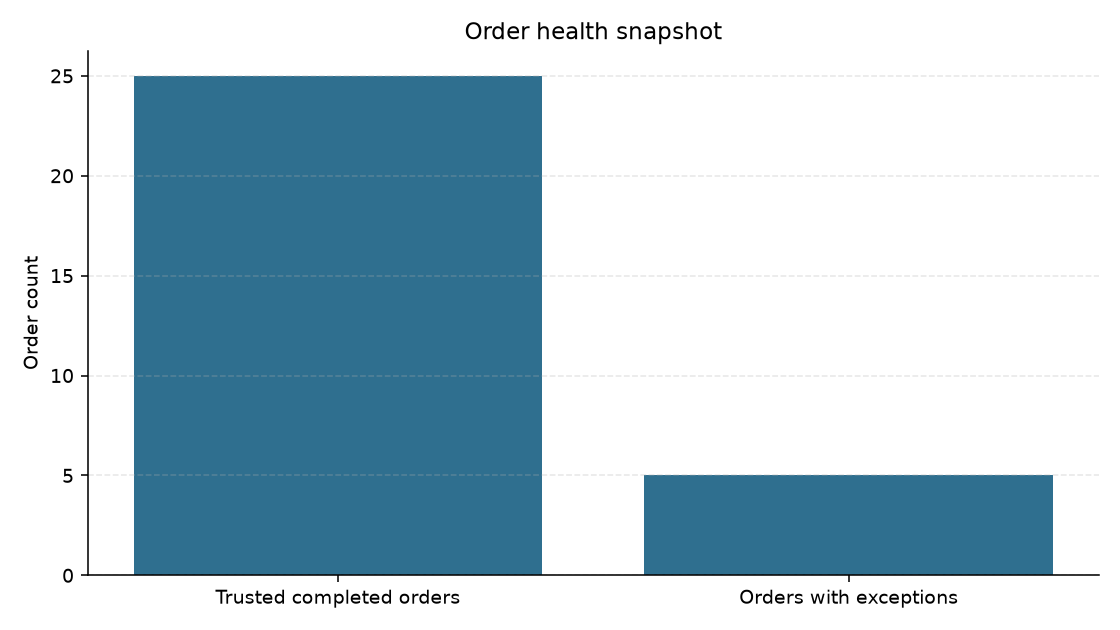
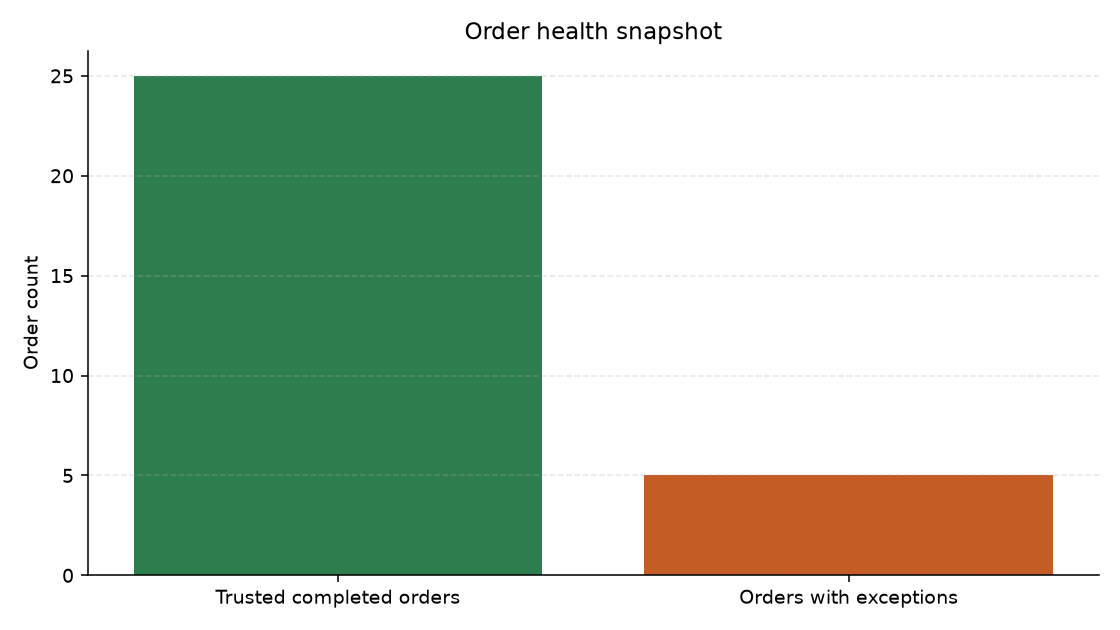
tables before charts and clearer chart colors.

diff --git a/src/reporting.py b/src/reporting.py
@@ -13,6 +13,14 @@ from src.ingest import OUTPUT_DIR
 SQL_DIR = Path(__file__).resolve().parents[1] / "sql"
 CHARTS_DIR = OUTPUT_DIR / "charts"
 
+# Simple professional palette (no purple glow stack)
+COLOR_PRIMARY = "#2F6F8F"  # revenue / single-series charts
+COLOR_TRUSTED = "#2E7D4F"  # healthy / trusted
+COLOR_EXCEPTION = "#C45C26"  # problems needing review
+COLOR_HIGH = "#B33A3A"
+COLOR_MEDIUM = "#C45C26"
+COLOR_LOW = "#6B7280"
+
 
 def _md_table(df: pd.DataFrame) -> str:
     if df is None or df.empty:
@@ -61,16 +69,18 @@ def _save_bar_chart(
     ylabel: str,
     filename: str,
     horizontal: bool = False,
+    colors: str | list[str] | None = None,
 ) -> Path:
     CHARTS_DIR.mkdir(parents=True, exist_ok=True)
     path = CHARTS_DIR / filename
     fig, ax = plt.subplots(figsize=(8, 4.5))
+    bar_colors = colors if colors is not None else COLOR_PRIMARY
     if horizontal:
-        ax.barh(categories, values, color="#2F6F8F")
+        ax.barh(categories, values, color=bar_colors)
         ax.set_xlabel(ylabel)
         ax.invert_yaxis()
     else:
-        ax.bar(categories, values, color="#2F6F8F")
+        ax.bar(categories, values, color=bar_colors)
         ax.set_ylabel(ylabel)
         ax.tick_params(axis="x", rotation=0)
     ax.set_title(title)
@@ -92,6 +102,7 @@ def _write_charts(bq_frames: list[pd.DataFrame]) -> dict[str, str]:
             title="Q1: Completed revenue by month",
             ylabel="Revenue ($)",
             filename="q1_revenue_by_month.png",
+            colors=COLOR_PRIMARY,
         )
         images["q1"] = "charts/q1_revenue_by_month.png"
 
@@ -107,6 +118,7 @@ def _write_charts(bq_frames: list[pd.DataFrame]) -> dict[str, str]:
             ylabel="Completed order value ($)",
             filename="q2_top_customers.png",
             horizontal=True,
+            colors=COLOR_PRIMARY,
         )
         images["q2"] = "charts/q2_top_customers.png"
 
@@ -118,14 +130,14 @@ def _write_charts(bq_frames: list[pd.DataFrame]) -> dict[str, str]:
             title="Q4: Completed revenue by state",
             ylabel="Revenue ($)",
             filename="q4_revenue_by_state.png",
+            colors=COLOR_PRIMARY,
         )
         images["q4"] = "charts/q4_revenue_by_state.png"
 
     return images
 
 
-def _write_order_health_chart(con: duckdb.DuckDBPyConnection) -> Path:
-    """Trusted completed orders vs orders with exceptions (README snapshot)."""
+def _order_health_counts(con: duckdb.DuckDBPyConnection) -> tuple[int, int]:
     trusted = con.execute(
         """
         SELECT count(*) FROM fact_order
@@ -161,14 +173,38 @@ def _write_order_health_chart(con: duckdb.DuckDBPyConnection) -> Path:
         SELECT count(DISTINCT order_key) FROM flagged
         """
     ).fetchone()[0]
+    return int(trusted), int(exception_orders)
 
+
+def _write_order_health_chart(trusted: int, exception_orders: int) -> Path:
+    """Trusted completed orders vs orders with exceptions (README snapshot)."""
     return _save_bar_chart(
         categories=["Trusted completed orders", "Orders with exceptions"],
         values=[float(trusted), float(exception_orders)],
         title="Order health snapshot",
         ylabel="Order count",
         filename="readme_order_health.png",
+        colors=[COLOR_TRUSTED, COLOR_EXCEPTION],
     )
+
+
+def _section_with_table_then_chart(
+    title: str,
+    intro: str | None,
+    table_df: pd.DataFrame | None,
+    chart_path: str | None,
+    chart_alt: str,
+) -> list[str]:
+    parts = [f"## {title}", ""]
+    if intro:
+        parts.extend([intro, ""])
+    if table_df is not None:
+        parts.extend([_md_table(table_df), ""])
+    else:
+        parts.extend(["_Query missing._\n", ""])
+    if chart_path:
+        parts.extend([f"![{chart_alt}]({chart_path})", ""])
+    return parts
 
 
 def write_outputs(con: duckdb.DuckDBPyConnection) -> None:
@@ -205,19 +241,68 @@ def write_outputs(con: duckdb.DuckDBPyConnection) -> None:
     failed = int((dq["status"] == "FAIL").sum()) if not dq.empty else 0
 
     CHARTS_DIR.mkdir(parents=True, exist_ok=True)
-    _write_order_health_chart(con)
+    trusted_n, exception_n = _order_health_counts(con)
+    _write_order_health_chart(trusted_n, exception_n)
+
     sev = (
         exceptions.groupby("severity").size().reindex(["High", "Medium", "Low"]).fillna(0)
         if not exceptions.empty
         else pd.Series({"High": 0, "Medium": 0, "Low": 0})
     )
+    sev_df = pd.DataFrame(
+        {"severity": sev.index.astype(str), "exception_count": sev.values.astype(int)}
+    )
     _save_bar_chart(
-        categories=[str(x) for x in sev.index.tolist()],
-        values=[float(x) for x in sev.values.tolist()],
+        categories=sev_df["severity"].tolist(),
+        values=sev_df["exception_count"].astype(float).tolist(),
         title="Exception count by severity",
         ylabel="Count",
         filename="dq_exceptions_by_severity.png",
+        colors=[COLOR_HIGH, COLOR_MEDIUM, COLOR_LOW],
     )
+
+    # Keep a small snapshot table next to the README chart path for regenerable docs
+    snapshot_df = pd.DataFrame(
+        {
+            "category": ["Trusted completed orders", "Orders with exceptions"],
+            "order_count": [trusted_n, exception_n],
+        }
+    )
+    (OUTPUT_DIR / "order_health_snapshot.md").write_text(
+        "\n".join(
+            [
+                "# Order health snapshot",
+                "",
+                _md_table(snapshot_df),
+                "![Order health snapshot](charts/readme_order_health.png)",
+                "",
+            ]
+        ),
+        encoding="utf-8",
+    )
+
+    # Keep README snapshot table in sync with generated counts
+    readme_path = Path(__file__).resolve().parents[1] / "README.md"
+    if readme_path.exists():
+        readme = readme_path.read_text(encoding="utf-8")
+        start = readme.find("## Snapshot")
+        end = readme.find("## Repository structure")
+        if start != -1 and end != -1 and start < end:
+            snapshot_block = "\n".join(
+                [
+                    "## Snapshot",
+                    "",
+                    "This snapshot is generated by the pipeline. Exact counts first, then the chart "
+                    "(green = trusted, orange = exceptions).",
+                    "",
+                    _md_table(snapshot_df).rstrip(),
+                    "",
+                    "![Order health snapshot](outputs/charts/readme_order_health.png)",
+                    "",
+                    "",
+                ]
+            )
+            readme_path.write_text(readme[:start] + snapshot_block + readme[end:], encoding="utf-8")
 
     dq_report = "\n".join(
         [
@@ -234,6 +319,7 @@ def write_outputs(con: duckdb.DuckDBPyConnection) -> None:
             "",
             "## Exception count by severity",
             "",
+            _md_table(sev_df),
             "![Exception count by severity](charts/dq_exceptions_by_severity.png)",
             "",
             "## Rule results",
@@ -256,45 +342,48 @@ def write_outputs(con: duckdb.DuckDBPyConnection) -> None:
         "# Business Question Answers",
         "",
         "Answers are generated with SQL from `sql/business_questions.sql` "
-        "against the curated model. Values are not hard-coded. Charts are "
-        "created automatically each time the pipeline runs.",
-        "",
-        "## Q1. What is completed revenue by month?",
-        "",
-        "Trusted completed orders only (valid customer and product IDs, quantity greater than zero).",
+        "against the curated model. Values are not hard-coded. Each section shows "
+        "the table first, then the chart. Charts refresh when the pipeline runs.",
         "",
     ]
-    if "q1" in images:
-        sections.extend([f"![Q1 completed revenue by month]({images['q1']})", ""])
     sections.extend(
-        [
-            _md_table(bq_frames[0]) if len(bq_frames) > 0 else "_Query missing._\n",
-            "",
-            "## Q2. Who are the top 10 customers by completed order value?",
-            "",
-        ]
+        _section_with_table_then_chart(
+            "Q1. What is completed revenue by month?",
+            "Trusted completed orders only (valid customer and product IDs, quantity greater than zero).",
+            bq_frames[0] if len(bq_frames) > 0 else None,
+            images.get("q1"),
+            "Q1 completed revenue by month",
+        )
     )
-    if "q2" in images:
-        sections.extend([f"![Q2 top customers]({images['q2']})", ""])
+    sections.extend(
+        _section_with_table_then_chart(
+            "Q2. Who are the top 10 customers by completed order value?",
+            None,
+            bq_frames[1] if len(bq_frames) > 1 else None,
+            images.get("q2"),
+            "Q2 top customers",
+        )
+    )
     sections.extend(
         [
-            _md_table(bq_frames[1]) if len(bq_frames) > 1 else "_Query missing._\n",
-            "",
             "## Q3. Which orders have payment mismatches, missing payments, "
             "invalid customer references, invalid product references, or suspicious quantities?",
             "",
             _md_table(bq_frames[2]) if len(bq_frames) > 2 else "_Query missing._\n",
             "",
-            "## Q4. Which states have the highest completed revenue?",
-            "",
         ]
     )
-    if "q4" in images:
-        sections.extend([f"![Q4 completed revenue by state]({images['q4']})", ""])
+    sections.extend(
+        _section_with_table_then_chart(
+            "Q4. Which states have the highest completed revenue?",
+            None,
+            bq_frames[3] if len(bq_frames) > 3 else None,
+            images.get("q4"),
+            "Q4 completed revenue by state",
+        )
+    )
     sections.extend(
         [
-            _md_table(bq_frames[3]) if len(bq_frames) > 3 else "_Query missing._\n",
-            "",
             "## Q5. Is there any visible relationship between negative support tickets "
             "and order or payment exceptions?",
             "",

diff --git a/outputs/business_answers.md b/outputs/business_answers.md
@@ -1,12 +1,10 @@
 # Business Question Answers
 
-Answers are generated with SQL from `sql/business_questions.sql` against the curated model. Values are not hard-coded. Charts are created automatically each time the pipeline runs.
+Answers are generated with SQL from `sql/business_questions.sql` against the curated model. Values are not hard-coded. Each section shows the table first, then the chart. Charts refresh when the pipeline runs.
 
 ## Q1. What is completed revenue by month?
 
 Trusted completed orders only (valid customer and product IDs, quantity greater than zero).
-
-![Q1 completed revenue by month](charts/q1_revenue_by_month.png)
 
 | month | completed_revenue | completed_order_count |
 | --- | --- | --- |
@@ -15,15 +13,15 @@ Trusted completed orders only (valid customer and product IDs, quantity greater 
 | 2025-05 | 446.2 | 9 |
 
 
-## Q2. Who are the top 10 customers by completed order value?
+![Q1 completed revenue by month](charts/q1_revenue_by_month.png)
 
-![Q2 top customers](charts/q2_top_customers.png)
+## Q2. Who are the top 10 customers by completed order value?
 
 | customer_key | full_name | loyalty_tier | completed_order_value | completed_orders |
 | --- | --- | --- | --- | --- |
 | C010 | Lucas Taylor | Gold | 194.98 | 2 |
-| C012 | James Thomas | Bronze | 133.98 | 2 |
 | C016 | Henry Martin | Silver | 133.98 | 2 |
+| C012 | James Thomas | Bronze | 133.98 | 2 |
 | C007 | Sophia Miller | Gold | 99.98 | 2 |
 | C002 | Liam Nguyen | Silver | 89.99 | 2 |
 | C009 | Isabella Moore | Bronze | 83.25 | 2 |
@@ -32,6 +30,8 @@ Trusted completed orders only (valid customer and product IDs, quantity greater 
 | C003 | Noah Williams | Bronze | 73.75 | 2 |
 | C013 | Charlotte Jackson | Silver | 59.0 | 1 |
 
+
+![Q2 top customers](charts/q2_top_customers.png)
 
 ## Q3. Which orders have payment mismatches, missing payments, invalid customer references, invalid product references, or suspicious quantities?
 
@@ -46,8 +46,6 @@ Trusted completed orders only (valid customer and product IDs, quantity greater 
 
 ## Q4. Which states have the highest completed revenue?
 
-![Q4 completed revenue by state](charts/q4_revenue_by_state.png)
-
 | state | completed_revenue | completed_order_count |
 | --- | --- | --- |
 | MA | 278.23 | 4 |
@@ -58,6 +56,8 @@ Trusted completed orders only (valid customer and product IDs, quantity greater 
 | NY | 117.0 | 2 |
 | FL | 65.99 | 3 |
 
+
+![Q4 completed revenue by state](charts/q4_revenue_by_state.png)
 
 ## Q5. Is there any visible relationship between negative support tickets and order or payment exceptions?
 

diff --git a/README.md b/README.md
@@ -6,7 +6,12 @@ The pipeline is modular so each layer has a clear job: load data, clean and mode
 
 ## Snapshot
 
-This chart is generated by the pipeline. It compares trusted completed orders with orders that have quality or payment exceptions.
+This snapshot is generated by the pipeline. Exact counts first, then the chart (green = trusted, orange = exceptions).
+
+| category | order_count |
+| --- | --- |
+| Trusted completed orders | 25 |
+| Orders with exceptions | 5 |
 
 ![Order health snapshot](outputs/charts/readme_order_health.png)
 
@@ -168,7 +173,7 @@ Outputs:
 
 ## Business answers
 
-Answers are produced by `sql/business_questions.sql` against the curated model. They are not hard-coded. Each pipeline run also writes charts under `outputs/charts/` and embeds them in `business_answers.md`.
+Answers are produced by `sql/business_questions.sql` against the curated model. They are not hard-coded. Each pipeline run also writes charts under `outputs/charts/` and embeds them in `business_answers.md` with the **table first, then the chart**.
 
 **Completed revenue definition:** `order_status = completed`, valid customer and product keys, and `quantity > 0`. Defective orders stay in exceptions and question 3.
 

diff --git a/outputs/order_health_snapshot.md b/outputs/order_health_snapshot.md
@@ -1,0 +1,8 @@
+# Order health snapshot
+
+| category | order_count |
+| --- | --- |
+| Trusted completed orders | 25 |
+| Orders with exceptions | 5 |
+
+![Order health snapshot](charts/readme_order_health.png)

diff --git a/outputs/data_quality_report.md b/outputs/data_quality_report.md
@@ -23,6 +23,12 @@ Generated from the curated DuckDB model and DQ001 to DQ013 checks.
 
 ## Exception count by severity
 
+| severity | exception_count |
+| --- | --- |
+| High | 12 |
+| Medium | 9 |
+| Low | 0 |
+
 ![Exception count by severity](charts/dq_exceptions_by_severity.png)
 
 ## Rule results